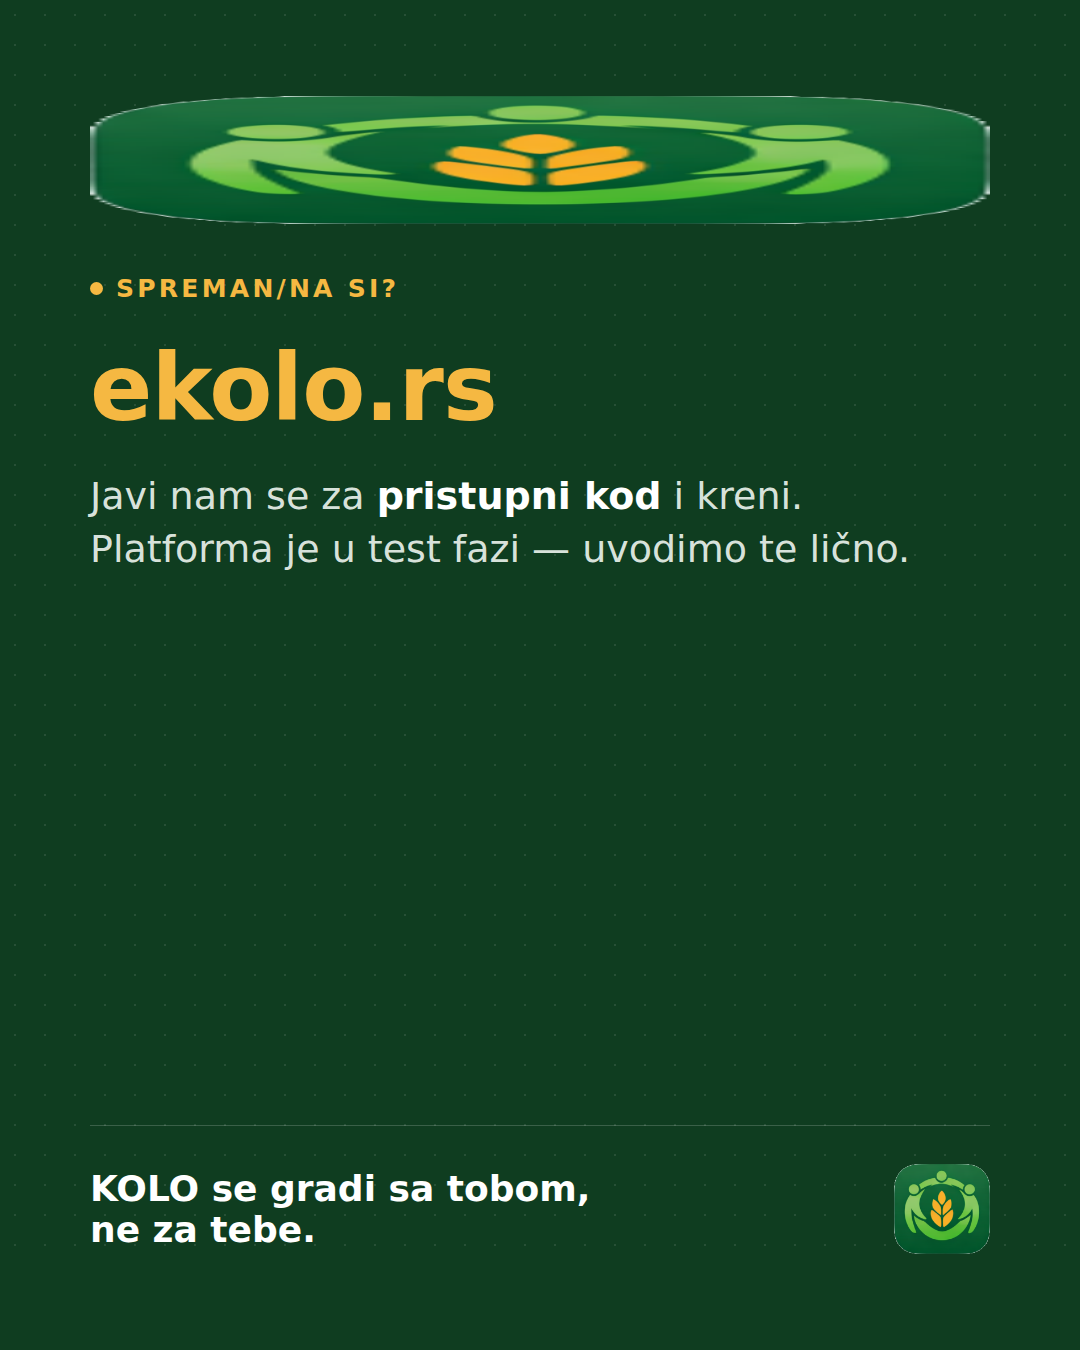
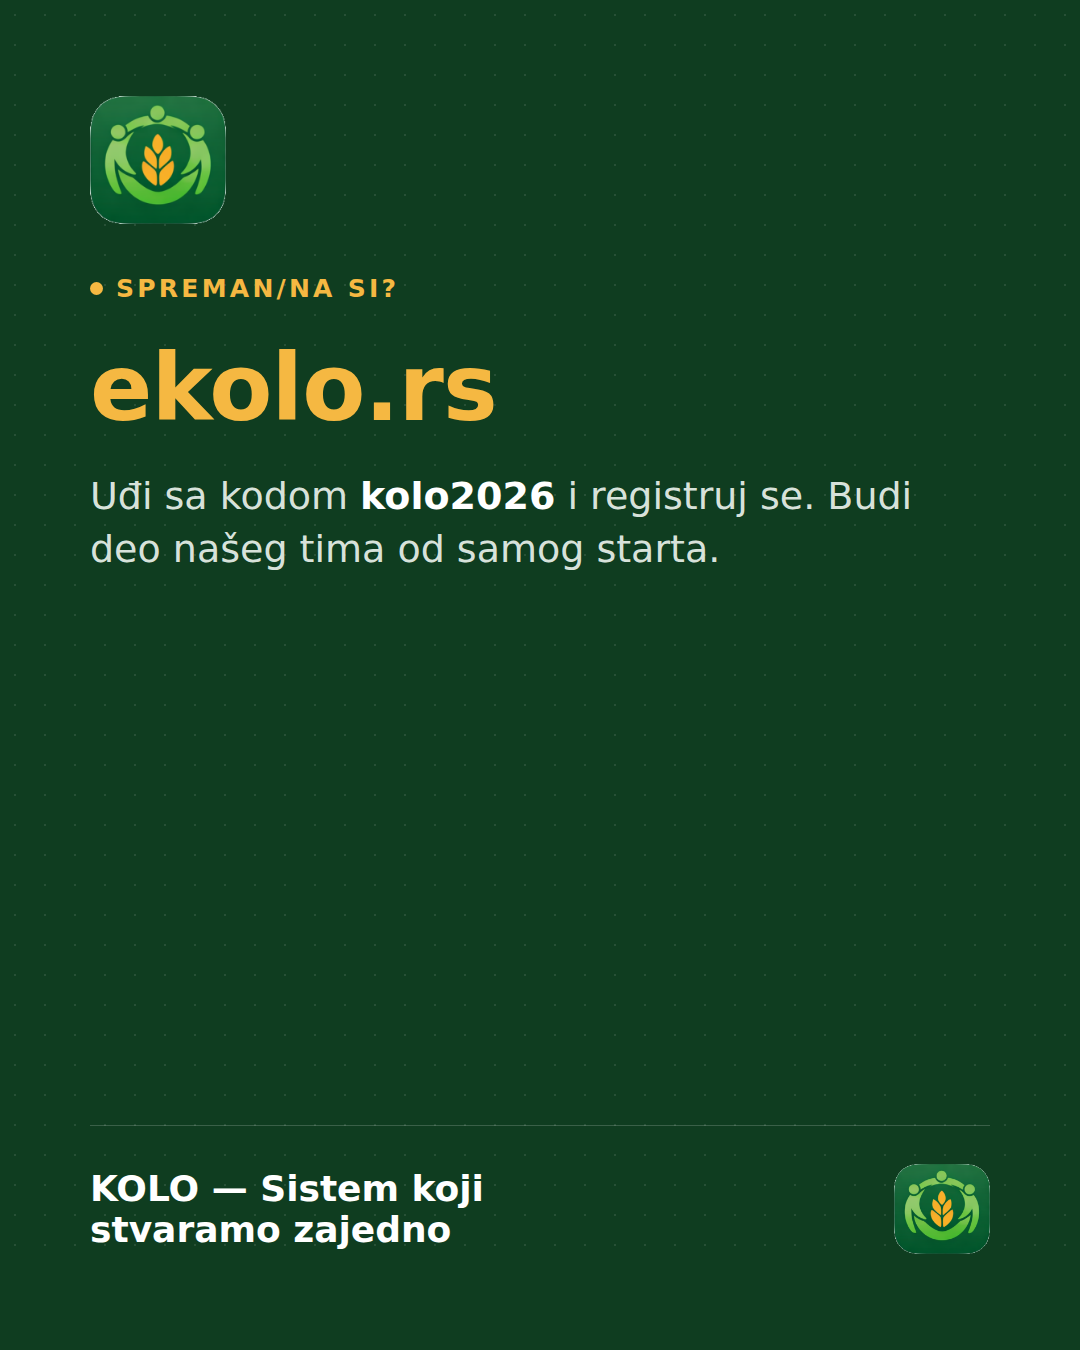
Karusel slajd 7: CTA "Uđi sa kodom kolo2026" (Opcija A) + fix razvučene ikonice
- Tekst: "Uđi sa kodom kolo2026 i registruj se. Budi deo našeg tima od
  samog starta."; dno "KOLO — Sistem koji stvaramo zajedno"
- Fix: gornja ikonica se razvlačila (flex align-items:stretch) →
  align-self:flex-start + width:auto

Claude-Session: https://claude.ai/code/session_01A7bQVxSHeSz71wJ42xFBAB

Changed region(s): [[0.0611, 0.0622, 0.9167, 0.1867], [0.0917, 0.3422, 0.8556, 0.4356], [0.0917, 0.8711, 0.55, 0.9333]]

diff --git a/marketing/onboarding-carousel/README.md b/marketing/onboarding-carousel/README.md
@@ -18,7 +18,7 @@ Karusel za društvene mreže (Instagram / Facebook) — **čisto praktično uput
 4. **Korak 3 · Nalog napravljen** — *dobrodošli* ekran; potvrda da si ulogovan/a
 5. **Korak 4 · Verifikacija** — *verifikacija* ekran (0/0% neverifikovan); **zaokruženo** „Pokaži svoj kod nekome ko može da te verifikuje"
 6. **Ako ne znaš nikog** — *tabla jemstva* ekran; ostaviš predstavljanje, verifikovani ti se jave
-7. **Poziv na akciju** — ekolo.rs, javi se za pristupni kod (grafika)
+7. **Poziv na akciju** — ekolo.rs, „Uđi sa kodom kolo2026 i registruj se" (grafika)
 
 > **Pristupni kod:** na slajdu 2 u polju stoji `kolo2026`. Pošto je karusel javan, svako ko ga vidi može da ga iskoristi — ako želiš da kod ostane poluprivatan, javi pa ga zamaglim/zamenim placeholderom (npr. `kolo••••`).
 